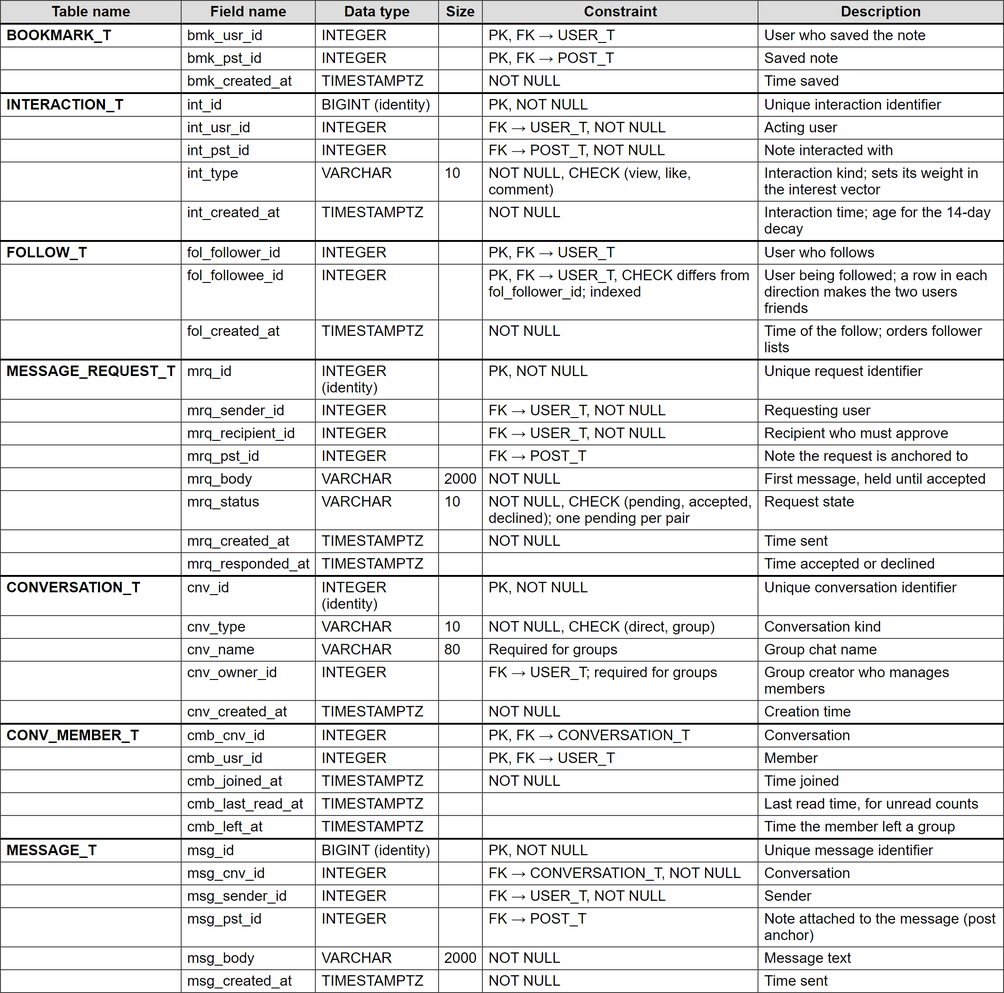
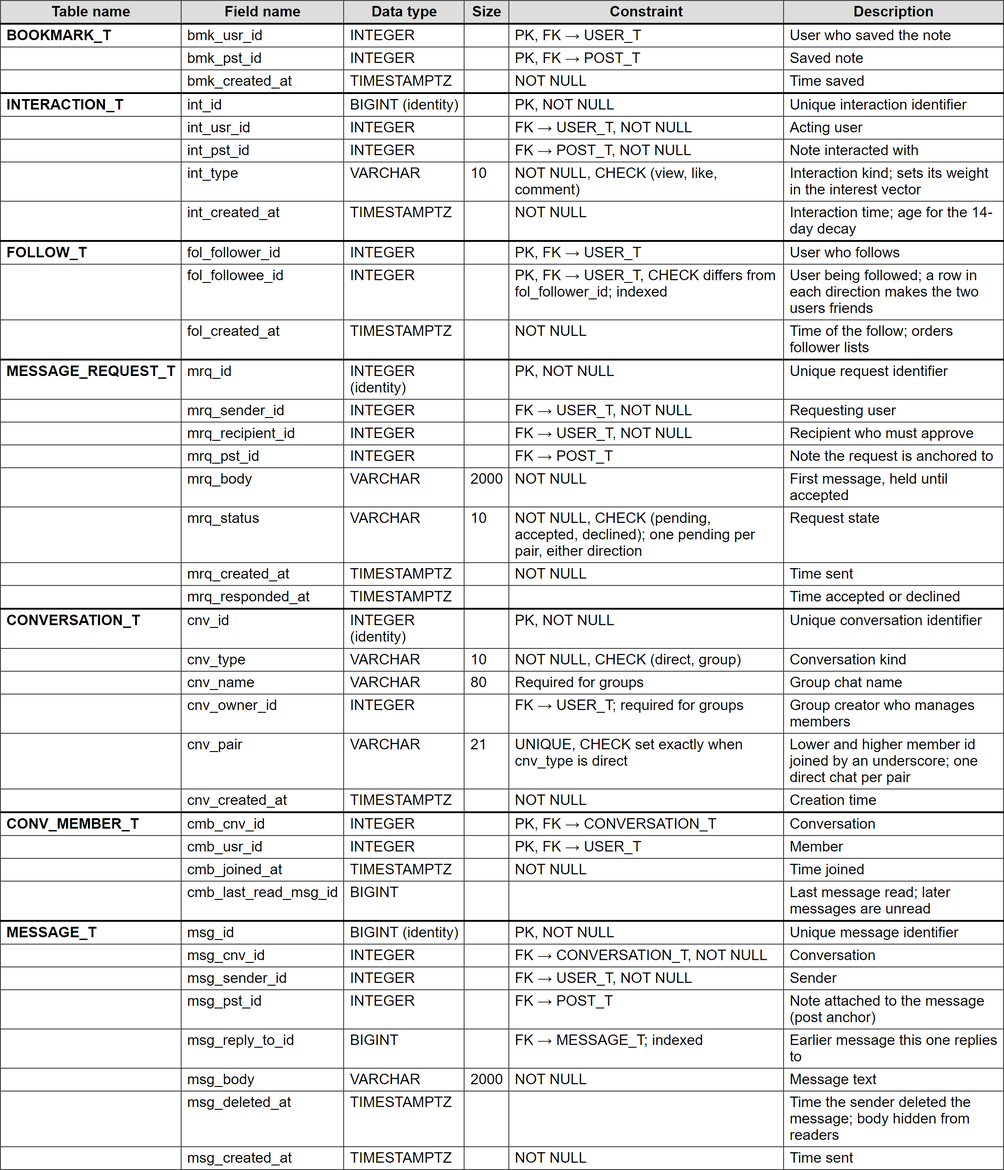
Update Chapter 4.3 for Sprint 4 tables
Adds TERM_T, BLOCK_T and NOTIFICATION_T to the data dictionary and ERD source, adjusts the messaging columns and indexes from migration 20261016000003, regenerates the schema table images (now five pages) and rebuilds CHAPTER4.md.

Changed region(s): [[0.0, 0.0, 1.0, 1.0], [0.0309, 0.9062, 0.1545, 0.9375]]

diff --git a/docs/chapter4/CHAPTER4.md b/docs/chapter4/CHAPTER4.md
@@ -424,15 +424,17 @@
 
 *Figure 4.13: PARP entity relationship diagram (crow's foot notation)*
 
-	Figure 4.13 presents the relational data model of PARP as twenty-four entities in crow's foot notation. The model is organised around two central entities. USER_T holds every account, with a single role attribute distinguishing students, lecturers and administrators rather than three separate tables, because the three roles share all identity attributes and a lecturer differs from a student only in permissions. POST_T holds each slide note and references its author and its module; the slides themselves are stored in SLIDE_T as an ordered one-to-many child, since a note contains a variable number of slides that must keep their sequence. A post may exist without a module only while it is a draft, and a check constraint enforces that a published post always has a module, a visibility value and a publication time, which keeps the feed and search queries free of incomplete rows.
+	Figure 4.13 presents the relational data model of PARP as twenty-seven entities in crow's foot notation. The model is organised around two central entities. USER_T holds every account, with a single role attribute distinguishing students, lecturers and administrators rather than three separate tables, because the three roles share all identity attributes and a lecturer differs from a student only in permissions. POST_T holds each slide note and references its author and its module; the slides themselves are stored in SLIDE_T as an ordered one-to-many child, since a note contains a variable number of slides that must keep their sequence. A post may exist without a module only while it is a draft, and a check constraint enforces that a published post always has a module, a visibility value and a publication time, which keeps the feed and search queries free of incomplete rows.
 
 	The entities around POST_T map directly to the four components of the ranking formula in Section 2.3.4. LIKE_T and COMMENT_T provide the like and comment counts for the engagement component E. The publication time on POST_T provides the age for the recency component R. VERIFICATION_T records each lecturer Super Like and, together with the author's role, determines the lecturer validation component V. HASHTAG_T, linked to posts through the associative entity POST_HASHTAG_T, and INTERACTION_T together provide the relevance component M: INTERACTION_T is an append-only log of the views, likes and comments each user performs, from which the viewer's decayed interest weight for each hashtag is calculated. Storing raw interactions instead of a pre-computed interest vector keeps the 14-day decay exact and allows the weights to be re-tuned after user acceptance testing (NFR5) without migrating stored data.
 
-	The remaining entities serve engagement, moderation and messaging. COMMENT_T references itself through cmt_parent_id to support one level of replies (FR16), and COMMENT_LIKE_T supplies the like counts that order student comments beneath pinned lecturer comments. BOOKMARK_T implements the saved-notes list (FR14), and REPORT_T together with ACCOUNT_ACTION_T record the moderation workflow, including which administrator resolved each report or changed each account status. FOLLOW_T records who follows whom, one row per direction; when two users follow each other they are friends, who may see each other's contacts-only notes (FR10) and message each other directly. Messaging is separated into MESSAGE_REQUEST_T, which holds a first message from a non-friend until the recipient approves it (FR6), and CONVERSATION_T, CONV_MEMBER_T and MESSAGE_T, which hold direct and group conversations (FR13); approving a request opens that conversation without making the two users friends. Both MESSAGE_REQUEST_T and MESSAGE_T carry an optional reference to POST_T, which is how a message is anchored to a specific note (FR7, Objective 4). For legibility, Figure 4.13 draws one relationship line per pair of entities, except FOLLOW_T, which is drawn twice because it references USER_T as both follower and followee; the second foreign keys to USER_T in MESSAGE_REQUEST_T, REPORT_T, CONVERSATION_T and ACCOUNT_ACTION_T are listed in Table 4.23.
+	The remaining entities serve engagement, moderation and messaging. COMMENT_T references itself through cmt_parent_id to support one level of replies (FR16), and COMMENT_LIKE_T supplies the like counts that order student comments beneath pinned lecturer comments. BOOKMARK_T implements the saved-notes list (FR14), and REPORT_T together with ACCOUNT_ACTION_T record the moderation workflow, including which administrator resolved each report or changed each account status. FOLLOW_T records who follows whom, one row per direction; when two users follow each other they are friends, who may see each other's contacts-only notes (FR10) and message each other directly. Messaging is separated into MESSAGE_REQUEST_T, which holds a first message from a non-friend until the recipient approves it (FR6), and CONVERSATION_T, CONV_MEMBER_T and MESSAGE_T, which hold direct and group conversations (FR13); approving a request opens that conversation without making the two users friends. A direct conversation stores its pair of members as a text key (cnv_pair), unique and present only for direct chats, so two first messages sent at the same moment cannot open two chats (D50). Each member row keeps the identifier of the last message read (cmb_last_read_msg_id) rather than a time, and MESSAGE_T can reference an earlier message it replies to and carries a deletion time that blanks the body for readers without removing the row. Both MESSAGE_REQUEST_T and MESSAGE_T carry an optional reference to POST_T, which is how a message is anchored to a specific note (FR7, Objective 4). For legibility, Figure 4.13 draws one relationship line per pair of entities, except FOLLOW_T, which is drawn twice because it references USER_T as both follower and followee; the second foreign keys to USER_T in MESSAGE_REQUEST_T, REPORT_T, CONVERSATION_T, ACCOUNT_ACTION_T and NOTIFICATION_T are listed in Table 4.23.
 
 	Two entities were added after the first design to meet the scale and reliability targets, and a third replaced an earlier one. FOLLOW_T replaced the original CONTACT_T, which stored a symmetric pair created by an accepted message request. A directed follow with a composite primary key and a check that a user cannot follow themselves is a single relationship from which friendship is derived at query time as a pair of follows in opposite directions, so there is no second table that could drift out of step; the migration that introduced it copied each existing contact into both directions. FEED_SNAPSHOT_T stores, for one viewer and one request time, the ranked list of post identifiers and their scores as arrays. The first page of the For You feed ranks the candidates once and writes this row, and later pages read a slice of it, so that a viewer paging through the feed sees a stable order and the ranking work is not repeated for every page; rows are short-lived and are deleted when they expire. RATE_LIMIT_T is an operational table with no foreign key to any other entity: it holds one counter per rate-limit key (a user identifier or an address) and time window, so that the request limits are enforced consistently across several server instances. It is therefore drawn in Figure 4.13 as a standalone entity.
 
 	Three entities support shared notes (R30), which were added after the first design. COLLABORATOR_T grants a user view or edit access to one note, with a composite primary key so that a user holds one role per note; the owner is never a row, because ownership is already recorded in pst_usr_id. An invited editor is credited on the note, and the note reaches their followers, only once clb_edited_at records their first save, so an owner cannot attach someone's name to a note they never worked on. SHARE_LINK_T stores the view and edit links an owner hands out. Only the SHA-256 hash of each random token is kept, so a copy of the database cannot be used to open shared notes, and a partial unique index allows at most one active link per note and role, which makes regenerating a link revoke the old one. COLLAB_REQUEST_T records a reader's request to collaborate until the owner approves or declines it, with a partial unique index that permits one pending request per note and user. POST_T gained three columns for the same feature: pst_content_edited_at records the last change to the title or slides of a published note, and a lecturer Super Like older than it no longer counts towards V until the lecturer confirms it again, while pst_lock_usr_id and pst_lock_expires_at hold a short soft lock so that only one collaborator edits at a time.
+
+	Three entities were added in Sprint 4. TERM_T holds the academic terms (name, start date and end date) that the search filter offers beside lecturer and module (FR15, D2, D47). Terms are maintained by administrators and may overlap, because the start dates of intakes differ between programmes; a check requires the start date to precede the end date, and a note belongs to a term when its publication time falls inside the range, so no column is added to POST_T and a change to a term needs no data migration. It is drawn as a standalone entity. BLOCK_T records that one user has blocked another (D49). Its composite primary key allows one row per direction, a check prevents a user from blocking themselves, and an index on the blocked user lets the queries that hide content in both directions find the blockers of a viewer as quickly as their blocked list. A block removes follows, pending collaboration requests and edit locks between the two users, and every feed, search, profile, comment, messaging and collaboration query excludes blocked pairs through one shared condition. NOTIFICATION_T stores the in-app notifications of R8 (D51). Each row names its recipient, an optional actor (moderation outcomes have none, so an administrator is not named), a type from a fixed list of eleven (mention, Super Like, follow, lecturer approval or rejection, hidden note, message request, collaboration request and its two outcomes, and edited since verification), and nullable references to the note, comment, collaboration request or message request concerned. Separate nullable columns are used instead of a JSON payload so that every reference is a foreign key; deleting the referenced row deletes the notification, so a request removed by a block takes its notification with it. A check prevents a user from notifying themselves, and the read time is null until the recipient opens the notification, which gives the unread count.
 
 ## 4.3.2 Database Schema
 
@@ -440,7 +442,7 @@
 
 *Table 4.23: PARP database schema*
 
-The schema table is also rendered as high-resolution images for the report: `diagrams/png/schema_table_1.png` to `schema_table_4.png`.
+The schema table is also rendered as high-resolution images for the report: `diagrams/png/schema_table_1.png` to `schema_table_5.png`.
 
 | Table name | Field name | Data type | Size | Constraint | Description |
 | --- | --- | --- | --- | --- | --- |
@@ -527,24 +529,26 @@ The schema table is also rendered as high-resolution images for the report: `dia
 | | mrq_recipient_id | INTEGER | | FK → USER_T, NOT NULL | Recipient who must approve |
 | | mrq_pst_id | INTEGER | | FK → POST_T | Note the request is anchored to |
 | | mrq_body | VARCHAR | 2000 | NOT NULL | First message, held until accepted |
-| | mrq_status | VARCHAR | 10 | NOT NULL, CHECK (pending, accepted, declined); one pending per pair | Request state |
+| | mrq_status | VARCHAR | 10 | NOT NULL, CHECK (pending, accepted, declined); one pending per pair, either direction | Request state |
 | | mrq_created_at | TIMESTAMPTZ | | NOT NULL | Time sent |
 | | mrq_responded_at | TIMESTAMPTZ | | | Time accepted or declined |
 | CONVERSATION_T | cnv_id | INTEGER (identity) | | PK, NOT NULL | Unique conversation identifier |
 | | cnv_type | VARCHAR | 10 | NOT NULL, CHECK (direct, group) | Conversation kind |
 | | cnv_name | VARCHAR | 80 | Required for groups | Group chat name |
 | | cnv_owner_id | INTEGER | | FK → USER_T; required for groups | Group creator who manages members |
+| | cnv_pair | VARCHAR | 21 | UNIQUE, CHECK set exactly when cnv_type is direct | Lower and higher member id joined by an underscore; one direct chat per pair |
 | | cnv_created_at | TIMESTAMPTZ | | NOT NULL | Creation time |
 | CONV_MEMBER_T | cmb_cnv_id | INTEGER | | PK, FK → CONVERSATION_T | Conversation |
 | | cmb_usr_id | INTEGER | | PK, FK → USER_T | Member |
 | | cmb_joined_at | TIMESTAMPTZ | | NOT NULL | Time joined |
-| | cmb_last_read_at | TIMESTAMPTZ | | | Last read time, for unread counts |
-| | cmb_left_at | TIMESTAMPTZ | | | Time the member left a group |
+| | cmb_last_read_msg_id | BIGINT | | | Last message read; later messages are unread |
 | MESSAGE_T | msg_id | BIGINT (identity) | | PK, NOT NULL | Unique message identifier |
 | | msg_cnv_id | INTEGER | | FK → CONVERSATION_T, NOT NULL | Conversation |
 | | msg_sender_id | INTEGER | | FK → USER_T, NOT NULL | Sender |
 | | msg_pst_id | INTEGER | | FK → POST_T | Note attached to the message (post anchor) |
+| | msg_reply_to_id | BIGINT | | FK → MESSAGE_T; indexed | Earlier message this one replies to |
 | | msg_body | VARCHAR | 2000 | NOT NULL | Message text |
+| | msg_deleted_at | TIMESTAMPTZ | | | Time the sender deleted the message; body hidden from readers |
 | | msg_created_at | TIMESTAMPTZ | | NOT NULL | Time sent |
 | ACCOUNT_ACTION_T | aac_id | INTEGER (identity) | | PK, NOT NULL | Unique action identifier |
 | | aac_usr_id | INTEGER | | FK → USER_T, NOT NULL | Account acted on |
@@ -579,7 +583,23 @@ The schema table is also rendered as high-resolution images for the report: `dia
 | | crq_status | VARCHAR | 8 | NOT NULL, CHECK (pending, approved, declined) | Request state |
 | | crq_created_at | TIMESTAMPTZ | | NOT NULL | Time sent |
 | | crq_decided_at | TIMESTAMPTZ | | Set exactly when not pending | Time approved or declined |
-
+| TERM_T | trm_id | INTEGER (identity) | | PK, NOT NULL | Unique term identifier |
+| | trm_name | VARCHAR | 50 | NOT NULL, UNIQUE | Term name shown in the search filter |
+| | trm_start_date | DATE | | NOT NULL, CHECK before trm_end_date | First day of the term |
+| | trm_end_date | DATE | | NOT NULL | Last day of the term |
+| BLOCK_T | blk_blocker_id | INTEGER | | PK, FK → USER_T | User who blocked |
+| | blk_blocked_id | INTEGER | | PK, FK → USER_T, CHECK differs from blk_blocker_id; indexed | User who is blocked |
+| | blk_created_at | TIMESTAMPTZ | | NOT NULL | Time of the block |
+| NOTIFICATION_T | ntf_id | INTEGER (identity) | | PK, NOT NULL | Unique notification identifier |
+| | ntf_usr_id | INTEGER | | FK → USER_T, NOT NULL, ON DELETE CASCADE | Recipient |
+| | ntf_actor_id | INTEGER | | FK → USER_T, ON DELETE CASCADE, CHECK differs from ntf_usr_id | User who caused it; null for moderation outcomes |
+| | ntf_type | VARCHAR | 30 | NOT NULL, CHECK (mention, super_like, follow, lecturer_approved, lecturer_rejected, note_hidden, message_request, collab_request, collab_approved, collab_declined, edited_since_verification) | Notification kind |
+| | ntf_pst_id | INTEGER | | FK → POST_T, ON DELETE CASCADE | Note concerned |
+| | ntf_cmt_id | INTEGER | | FK → COMMENT_T, ON DELETE CASCADE | Comment concerned |
+| | ntf_crq_id | INTEGER | | FK → COLLAB_REQUEST_T, ON DELETE CASCADE; indexed | Collaboration request concerned |
+| | ntf_mrq_id | INTEGER | | FK → MESSAGE_REQUEST_T, ON DELETE CASCADE | Message request concerned |
+| | ntf_read_at | TIMESTAMPTZ | | | Time the recipient read it; null while unread |
+| | ntf_created_at | TIMESTAMPTZ | | NOT NULL | Time created |
 
 	The schema is created by the versioned migration file `server/db/migrations/20261013000001_initial_schema.sql`, so that every later change is recorded as a new migration rather than an edit to the live database. Indexes are defined for the access paths that determine performance: published posts ordered by publication time for the feed, the GIN index on pst_search_doc and the hashtag index on POST_HASHTAG_T for the sub-three-second search target (FR5, NFR1), and the user and time index on INTERACTION_T for building interest vectors. Migrations added after the initial schema create further indexes, each for one access path:
 
@@ -593,6 +613,13 @@ The schema table is also rendered as high-resolution images for the report: `dia
 - `collaborator_user_idx` on COLLABORATOR_T (clb_usr_id): lists the notes shared with a user.
 - `share_link_active_idx` on SHARE_LINK_T (shl_pst_id, shl_role), unique and partial on active links: keeps one active link per note and role.
 - `collab_request_pending_idx` on COLLAB_REQUEST_T (crq_pst_id, crq_usr_id), unique and partial on pending requests: one open request per reader and note.
+- `block_blocked_idx` on BLOCK_T (blk_blocked_id): finds the users who have blocked a viewer.
+- `message_conv_id_idx` on MESSAGE_T (msg_cnv_id, msg_id), replacing the time-based index: pages through a conversation's history and finds its last message.
+- `message_reply_to_idx` on MESSAGE_T (msg_reply_to_id), partial on replies: serves the reply foreign key check when messages are purged.
+- `message_request_pending_pair_idx` on MESSAGE_REQUEST_T (lower and higher of mrq_sender_id and mrq_recipient_id), unique and partial on pending requests, replacing the per-direction index: one pending request per pair in either direction.
+- `notification_recipient_idx` on NOTIFICATION_T (ntf_usr_id, ntf_created_at DESC, ntf_id DESC): lists a user's notifications newest first with a stable page cursor.
+- `notification_unread_idx` on NOTIFICATION_T (ntf_usr_id), partial on unread: counts unread notifications.
+- `notification_collab_request_idx` on NOTIFICATION_T (ntf_crq_id), partial on notifications that reference a collaboration request: indexes the cascade when a request is deleted.
 
 # 4.4 Interface Design
 

diff --git a/docs/chapter4/4.3_database_design.md b/docs/chapter4/4.3_database_design.md
@@ -6,15 +6,17 @@
 
 *Figure 4.x: PARP entity relationship diagram (crow's foot notation)*
 
-	Figure 4.x presents the relational data model of PARP as twenty-four entities in crow's foot notation. The model is organised around two central entities. USER_T holds every account, with a single role attribute distinguishing students, lecturers and administrators rather than three separate tables, because the three roles share all identity attributes and a lecturer differs from a student only in permissions. POST_T holds each slide note and references its author and its module; the slides themselves are stored in SLIDE_T as an ordered one-to-many child, since a note contains a variable number of slides that must keep their sequence. A post may exist without a module only while it is a draft, and a check constraint enforces that a published post always has a module, a visibility value and a publication time, which keeps the feed and search queries free of incomplete rows.
+	Figure 4.x presents the relational data model of PARP as twenty-seven entities in crow's foot notation. The model is organised around two central entities. USER_T holds every account, with a single role attribute distinguishing students, lecturers and administrators rather than three separate tables, because the three roles share all identity attributes and a lecturer differs from a student only in permissions. POST_T holds each slide note and references its author and its module; the slides themselves are stored in SLIDE_T as an ordered one-to-many child, since a note contains a variable number of slides that must keep their sequence. A post may exist without a module only while it is a draft, and a check constraint enforces that a published post always has a module, a visibility value and a publication time, which keeps the feed and search queries free of incomplete rows.
 
 	The entities around POST_T map directly to the four components of the ranking formula in Section 2.3.4. LIKE_T and COMMENT_T provide the like and comment counts for the engagement component E. The publication time on POST_T provides the age for the recency component R. VERIFICATION_T records each lecturer Super Like and, together with the author's role, determines the lecturer validation component V. HASHTAG_T, linked to posts through the associative entity POST_HASHTAG_T, and INTERACTION_T together provide the relevance component M: INTERACTION_T is an append-only log of the views, likes and comments each user performs, from which the viewer's decayed interest weight for each hashtag is calculated. Storing raw interactions instead of a pre-computed interest vector keeps the 14-day decay exact and allows the weights to be re-tuned after user acceptance testing (NFR5) without migrating stored data.
 
-	The remaining entities serve engagement, moderation and messaging. COMMENT_T references itself through cmt_parent_id to support one level of replies (FR16), and COMMENT_LIKE_T supplies the like counts that order student comments beneath pinned lecturer comments. BOOKMARK_T implements the saved-notes list (FR14), and REPORT_T together with ACCOUNT_ACTION_T record the moderation workflow, including which administrator resolved each report or changed each account status. FOLLOW_T records who follows whom, one row per direction; when two users follow each other they are friends, who may see each other's contacts-only notes (FR10) and message each other directly. Messaging is separated into MESSAGE_REQUEST_T, which holds a first message from a non-friend until the recipient approves it (FR6), and CONVERSATION_T, CONV_MEMBER_T and MESSAGE_T, which hold direct and group conversations (FR13); approving a request opens that conversation without making the two users friends. Both MESSAGE_REQUEST_T and MESSAGE_T carry an optional reference to POST_T, which is how a message is anchored to a specific note (FR7, Objective 4). For legibility, Figure 4.x draws one relationship line per pair of entities, except FOLLOW_T, which is drawn twice because it references USER_T as both follower and followee; the second foreign keys to USER_T in MESSAGE_REQUEST_T, REPORT_T, CONVERSATION_T and ACCOUNT_ACTION_T are listed in Table [[next]].
+	The remaining entities serve engagement, moderation and messaging. COMMENT_T references itself through cmt_parent_id to support one level of replies (FR16), and COMMENT_LIKE_T supplies the like counts that order student comments beneath pinned lecturer comments. BOOKMARK_T implements the saved-notes list (FR14), and REPORT_T together with ACCOUNT_ACTION_T record the moderation workflow, including which administrator resolved each report or changed each account status. FOLLOW_T records who follows whom, one row per direction; when two users follow each other they are friends, who may see each other's contacts-only notes (FR10) and message each other directly. Messaging is separated into MESSAGE_REQUEST_T, which holds a first message from a non-friend until the recipient approves it (FR6), and CONVERSATION_T, CONV_MEMBER_T and MESSAGE_T, which hold direct and group conversations (FR13); approving a request opens that conversation without making the two users friends. A direct conversation stores its pair of members as a text key (cnv_pair), unique and present only for direct chats, so two first messages sent at the same moment cannot open two chats (D50). Each member row keeps the identifier of the last message read (cmb_last_read_msg_id) rather than a time, and MESSAGE_T can reference an earlier message it replies to and carries a deletion time that blanks the body for readers without removing the row. Both MESSAGE_REQUEST_T and MESSAGE_T carry an optional reference to POST_T, which is how a message is anchored to a specific note (FR7, Objective 4). For legibility, Figure 4.x draws one relationship line per pair of entities, except FOLLOW_T, which is drawn twice because it references USER_T as both follower and followee; the second foreign keys to USER_T in MESSAGE_REQUEST_T, REPORT_T, CONVERSATION_T, ACCOUNT_ACTION_T and NOTIFICATION_T are listed in Table [[next]].
 
 	Two entities were added after the first design to meet the scale and reliability targets, and a third replaced an earlier one. FOLLOW_T replaced the original CONTACT_T, which stored a symmetric pair created by an accepted message request. A directed follow with a composite primary key and a check that a user cannot follow themselves is a single relationship from which friendship is derived at query time as a pair of follows in opposite directions, so there is no second table that could drift out of step; the migration that introduced it copied each existing contact into both directions. FEED_SNAPSHOT_T stores, for one viewer and one request time, the ranked list of post identifiers and their scores as arrays. The first page of the For You feed ranks the candidates once and writes this row, and later pages read a slice of it, so that a viewer paging through the feed sees a stable order and the ranking work is not repeated for every page; rows are short-lived and are deleted when they expire. RATE_LIMIT_T is an operational table with no foreign key to any other entity: it holds one counter per rate-limit key (a user identifier or an address) and time window, so that the request limits are enforced consistently across several server instances. It is therefore drawn in Figure 4.x as a standalone entity.
 
 	Three entities support shared notes (R30), which were added after the first design. COLLABORATOR_T grants a user view or edit access to one note, with a composite primary key so that a user holds one role per note; the owner is never a row, because ownership is already recorded in pst_usr_id. An invited editor is credited on the note, and the note reaches their followers, only once clb_edited_at records their first save, so an owner cannot attach someone's name to a note they never worked on. SHARE_LINK_T stores the view and edit links an owner hands out. Only the SHA-256 hash of each random token is kept, so a copy of the database cannot be used to open shared notes, and a partial unique index allows at most one active link per note and role, which makes regenerating a link revoke the old one. COLLAB_REQUEST_T records a reader's request to collaborate until the owner approves or declines it, with a partial unique index that permits one pending request per note and user. POST_T gained three columns for the same feature: pst_content_edited_at records the last change to the title or slides of a published note, and a lecturer Super Like older than it no longer counts towards V until the lecturer confirms it again, while pst_lock_usr_id and pst_lock_expires_at hold a short soft lock so that only one collaborator edits at a time.
+
+	Three entities were added in Sprint 4. TERM_T holds the academic terms (name, start date and end date) that the search filter offers beside lecturer and module (FR15, D2, D47). Terms are maintained by administrators and may overlap, because the start dates of intakes differ between programmes; a check requires the start date to precede the end date, and a note belongs to a term when its publication time falls inside the range, so no column is added to POST_T and a change to a term needs no data migration. It is drawn as a standalone entity. BLOCK_T records that one user has blocked another (D49). Its composite primary key allows one row per direction, a check prevents a user from blocking themselves, and an index on the blocked user lets the queries that hide content in both directions find the blockers of a viewer as quickly as their blocked list. A block removes follows, pending collaboration requests and edit locks between the two users, and every feed, search, profile, comment, messaging and collaboration query excludes blocked pairs through one shared condition. NOTIFICATION_T stores the in-app notifications of R8 (D51). Each row names its recipient, an optional actor (moderation outcomes have none, so an administrator is not named), a type from a fixed list of eleven (mention, Super Like, follow, lecturer approval or rejection, hidden note, message request, collaboration request and its two outcomes, and edited since verification), and nullable references to the note, comment, collaboration request or message request concerned. Separate nullable columns are used instead of a JSON payload so that every reference is a foreign key; deleting the referenced row deletes the notification, so a request removed by a block takes its notification with it. A check prevents a user from notifying themselves, and the read time is null until the recipient opens the notification, which gives the unread count.
 
 ## 4.3.2 Database Schema
 
@@ -22,7 +24,7 @@
 
 *Table 4.x: PARP database schema*
 
-The schema table is also rendered as high-resolution images for the report: `diagrams/png/schema_table_1.png` to `schema_table_4.png`.
+The schema table is also rendered as high-resolution images for the report: `diagrams/png/schema_table_1.png` to `schema_table_5.png`.
 
 | Table name | Field name | Data type | Size | Constraint | Description |
 | --- | --- | --- | --- | --- | --- |
@@ -109,24 +111,26 @@ The schema table is also rendered as high-resolution images for the report: `dia
 | | mrq_recipient_id | INTEGER | | FK → USER_T, NOT NULL | Recipient who must approve |
 | | mrq_pst_id | INTEGER | | FK → POST_T | Note the request is anchored to |
 | | mrq_body | VARCHAR | 2000 | NOT NULL | First message, held until accepted |
-| | mrq_status | VARCHAR | 10 | NOT NULL, CHECK (pending, accepted, declined); one pending per pair | Request state |
+| | mrq_status | VARCHAR | 10 | NOT NULL, CHECK (pending, accepted, declined); one pending per pair, either direction | Request state |
 | | mrq_created_at | TIMESTAMPTZ | | NOT NULL | Time sent |
 | | mrq_responded_at | TIMESTAMPTZ | | | Time accepted or declined |
 | CONVERSATION_T | cnv_id | INTEGER (identity) | | PK, NOT NULL | Unique conversation identifier |
 | | cnv_type | VARCHAR | 10 | NOT NULL, CHECK (direct, group) | Conversation kind |
 | | cnv_name | VARCHAR | 80 | Required for groups | Group chat name |
 | | cnv_owner_id | INTEGER | | FK → USER_T; required for groups | Group creator who manages members |
+| | cnv_pair | VARCHAR | 21 | UNIQUE, CHECK set exactly when cnv_type is direct | Lower and higher member id joined by an underscore; one direct chat per pair |
 | | cnv_created_at | TIMESTAMPTZ | | NOT NULL | Creation time |
 | CONV_MEMBER_T | cmb_cnv_id | INTEGER | | PK, FK → CONVERSATION_T | Conversation |
 | | cmb_usr_id | INTEGER | | PK, FK → USER_T | Member |
 | | cmb_joined_at | TIMESTAMPTZ | | NOT NULL | Time joined |
-| | cmb_last_read_at | TIMESTAMPTZ | | | Last read time, for unread counts |
-| | cmb_left_at | TIMESTAMPTZ | | | Time the member left a group |
+| | cmb_last_read_msg_id | BIGINT | | | Last message read; later messages are unread |
 | MESSAGE_T | msg_id | BIGINT (identity) | | PK, NOT NULL | Unique message identifier |
 | | msg_cnv_id | INTEGER | | FK → CONVERSATION_T, NOT NULL | Conversation |
 | | msg_sender_id | INTEGER | | FK → USER_T, NOT NULL | Sender |
 | | msg_pst_id | INTEGER | | FK → POST_T | Note attached to the message (post anchor) |
+| | msg_reply_to_id | BIGINT | | FK → MESSAGE_T; indexed | Earlier message this one replies to |
 | | msg_body | VARCHAR | 2000 | NOT NULL | Message text |
+| | msg_deleted_at | TIMESTAMPTZ | | | Time the sender deleted the message; body hidden from readers |
 | | msg_created_at | TIMESTAMPTZ | | NOT NULL | Time sent |
 | ACCOUNT_ACTION_T | aac_id | INTEGER (identity) | | PK, NOT NULL | Unique action identifier |
 | | aac_usr_id | INTEGER | | FK → USER_T, NOT NULL | Account acted on |
@@ -161,7 +165,23 @@ The schema table is also rendered as high-resolution images for the report: `dia
 | | crq_status | VARCHAR | 8 | NOT NULL, CHECK (pending, approved, declined) | Request state |
 | | crq_created_at | TIMESTAMPTZ | | NOT NULL | Time sent |
 | | crq_decided_at | TIMESTAMPTZ | | Set exactly when not pending | Time approved or declined |
-
+| TERM_T | trm_id | INTEGER (identity) | | PK, NOT NULL | Unique term identifier |
+| | trm_name | VARCHAR | 50 | NOT NULL, UNIQUE | Term name shown in the search filter |
+| | trm_start_date | DATE | | NOT NULL, CHECK before trm_end_date | First day of the term |
+| | trm_end_date | DATE | | NOT NULL | Last day of the term |
+| BLOCK_T | blk_blocker_id | INTEGER | | PK, FK → USER_T | User who blocked |
+| | blk_blocked_id | INTEGER | | PK, FK → USER_T, CHECK differs from blk_blocker_id; indexed | User who is blocked |
+| | blk_created_at | TIMESTAMPTZ | | NOT NULL | Time of the block |
+| NOTIFICATION_T | ntf_id | INTEGER (identity) | | PK, NOT NULL | Unique notification identifier |
+| | ntf_usr_id | INTEGER | | FK → USER_T, NOT NULL, ON DELETE CASCADE | Recipient |
+| | ntf_actor_id | INTEGER | | FK → USER_T, ON DELETE CASCADE, CHECK differs from ntf_usr_id | User who caused it; null for moderation outcomes |
+| | ntf_type | VARCHAR | 30 | NOT NULL, CHECK (mention, super_like, follow, lecturer_approved, lecturer_rejected, note_hidden, message_request, collab_request, collab_approved, collab_declined, edited_since_verification) | Notification kind |
+| | ntf_pst_id | INTEGER | | FK → POST_T, ON DELETE CASCADE | Note concerned |
+| | ntf_cmt_id | INTEGER | | FK → COMMENT_T, ON DELETE CASCADE | Comment concerned |
+| | ntf_crq_id | INTEGER | | FK → COLLAB_REQUEST_T, ON DELETE CASCADE; indexed | Collaboration request concerned |
+| | ntf_mrq_id | INTEGER | | FK → MESSAGE_REQUEST_T, ON DELETE CASCADE | Message request concerned |
+| | ntf_read_at | TIMESTAMPTZ | | | Time the recipient read it; null while unread |
+| | ntf_created_at | TIMESTAMPTZ | | NOT NULL | Time created |
 
 	The schema is created by the versioned migration file `server/db/migrations/20261013000001_initial_schema.sql`, so that every later change is recorded as a new migration rather than an edit to the live database. Indexes are defined for the access paths that determine performance: published posts ordered by publication time for the feed, the GIN index on pst_search_doc and the hashtag index on POST_HASHTAG_T for the sub-three-second search target (FR5, NFR1), and the user and time index on INTERACTION_T for building interest vectors. Migrations added after the initial schema create further indexes, each for one access path:
 
@@ -175,4 +195,11 @@ The schema table is also rendered as high-resolution images for the report: `dia
 - `collaborator_user_idx` on COLLABORATOR_T (clb_usr_id): lists the notes shared with a user.
 - `share_link_active_idx` on SHARE_LINK_T (shl_pst_id, shl_role), unique and partial on active links: keeps one active link per note and role.
 - `collab_request_pending_idx` on COLLAB_REQUEST_T (crq_pst_id, crq_usr_id), unique and partial on pending requests: one open request per reader and note.
+- `block_blocked_idx` on BLOCK_T (blk_blocked_id): finds the users who have blocked a viewer.
+- `message_conv_id_idx` on MESSAGE_T (msg_cnv_id, msg_id), replacing the time-based index: pages through a conversation's history and finds its last message.
+- `message_reply_to_idx` on MESSAGE_T (msg_reply_to_id), partial on replies: serves the reply foreign key check when messages are purged.
+- `message_request_pending_pair_idx` on MESSAGE_REQUEST_T (lower and higher of mrq_sender_id and mrq_recipient_id), unique and partial on pending requests, replacing the per-direction index: one pending request per pair in either direction.
+- `notification_recipient_idx` on NOTIFICATION_T (ntf_usr_id, ntf_created_at DESC, ntf_id DESC): lists a user's notifications newest first with a stable page cursor.
+- `notification_unread_idx` on NOTIFICATION_T (ntf_usr_id), partial on unread: counts unread notifications.
+- `notification_collab_request_idx` on NOTIFICATION_T (ntf_crq_id), partial on notifications that reference a collaboration request: indexes the cascade when a request is deleted.
 
